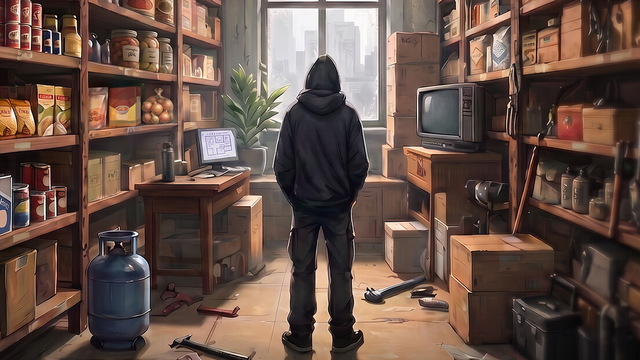
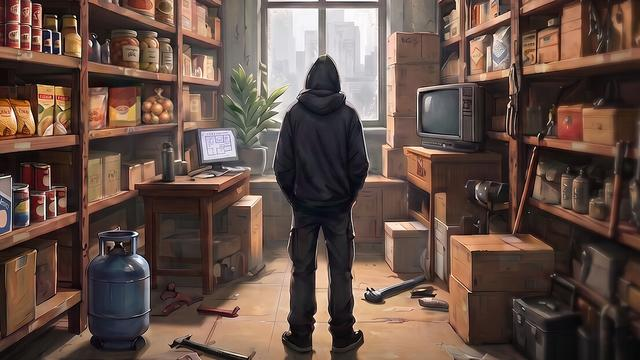
Extension id survivallog and JPEG game art
info.json gets the id survivallog (the Vortex game id), so Vortex keeps the extension in one folder and loads only one copy; the dev deploy writes to that folder. The game art is a 48 KB JPEG in place of the 375 KB PNG. Both under [Unreleased].

diff --git a/test/archive.test.ts b/test/archive.test.ts
@@ -5,7 +5,7 @@ import { archiveEntries } from "../scripts/archive.mjs";
 describe("archiveEntries", () => {
   const dist = [
     "common.js",
-    "gameart.png",
+    "gameart.jpg",
     "index.js",
     "index.js.map",
     "index.d.ts",
@@ -16,13 +16,13 @@ describe("archiveEntries", () => {
     "node_modules/x/index.js",
   ];
 
-  it("puts info.json, index.js, and gameart.png at the root", () => {
+  it("puts info.json, index.js, and gameart.jpg at the root", () => {
     const entries = archiveEntries(dist);
-    for (const name of ["info.json", "index.js", "gameart.png"]) expect(entries).toContain(name);
+    for (const name of ["info.json", "index.js", "gameart.jpg"]) expect(entries).toContain(name);
     expect(entries.every((e: string) => !e.includes("/"))).toBe(true);
   });
 
   it("keeps the other compiled files and leaves out maps, type files, node_modules, and earlier archives", () => {
-    expect(archiveEntries(dist)).toEqual(["common.js", "gameart.png", "index.js", "info.json", "installers.js", "pack.js"]);
+    expect(archiveEntries(dist)).toEqual(["common.js", "gameart.jpg", "index.js", "info.json", "installers.js", "pack.js"]);
   });
 });

diff --git a/test/info.test.ts b/test/info.test.ts
@@ -2,8 +2,13 @@ import { describe, expect, it } from "vitest";
 
 import pkg from "../package.json";
 import { makeInfo } from "../scripts/info.mjs";
+import { GAME_ID } from "../src/common";
 
 describe("makeInfo", () => {
+  it("gives the Vortex game id as the extension id, so each copy of the extension shares one folder name", () => {
+    expect(makeInfo(pkg).id).toBe(GAME_ID);
+  });
+
   it("gives the numeric Nexus game id that Vortex needs for the listing", () => {
     expect(makeInfo(pkg).gameId).toBe(9894);
   });

diff --git a/src/index.ts b/src/index.ts
@@ -78,7 +78,7 @@ function main(context: types.IExtensionContext): boolean {
   context.registerGame({
     id: GAME_ID,
     name: GAME_NAME,
-    logo: "gameart.png",
+    logo: "gameart.jpg",
     mergeMods: true,
     requiresCleanup: true,
     // Mods deploy from the game root; each installer sets a BepInEx mod type with its own folder.

diff --git a/nexus/images/README.md b/nexus/images/README.md
@@ -1,6 +1,6 @@
 # Images
 
-Nexus page images, tracked in the repo. Both come from the Steam library hero image of Survival Log (1920x620, the key art with no logo), the same source as `assets/gameart.png`. The mods-grid thumbnail is not a separate file: Nexus picks it from the uploaded gallery images.
+Nexus page images, tracked in the repo. Both come from the Steam library hero image of Survival Log (1920x620, the key art with no logo), the same source as `assets/gameart.jpg`. The mods-grid thumbnail is not a separate file: Nexus picks it from the uploaded gallery images.
 
 - `thumb.jpg` - title card (1920x1080) in the style of the mod thumbnails: on black, "Survival" and "Log" in the gold `(251, 178, 11)` (Noto Sans Bold), right-aligned on the left, "Vortex Extension" in white (Noto Sans Light) under them, and a 960x620 cut of the key art around the character on the right, with rounded corners. The gallery image. Pick it as the mods-grid thumbnail.
 - `banner.jpg` - the mod page background (1300x372): a 1440x412 cut of the key art around the character, scaled down, with no text.

diff --git a/README.md b/README.md
@@ -49,7 +49,7 @@ npm test
 npm run package
 ```
 
-`npm run package` writes `dist/sl-vortex-extension-<version>.zip` with `info.json`, `index.js`, the other compiled files, and `gameart.png` at the root. `npm run deploy:dev` copies the build into `%APPDATA%\Vortex\plugins\sl-vortex-extension\` for a test in Vortex; restart Vortex to load it.
+`npm run package` writes `dist/sl-vortex-extension-<version>.zip` with `info.json`, `index.js`, the other compiled files, and `gameart.jpg` at the root. `npm run deploy:dev` copies the build into `%APPDATA%\Vortex\plugins\survivallog\` (the folder of a Vortex install from Nexus, which it replaces) for a test in Vortex; restart Vortex to load it.
 
 - `src/common.ts` - the game constants: the Steam app id, the executable, the Nexus game id, and the pack file that Vortex uses when it cannot read the file list of the pack page.
 - `src/pack.ts` - the choice of the pack file (the newest main file of the pack page, from the public Nexus API) and the check for a BepInEx install in the game folder.

diff --git a/CHANGELOG.md b/CHANGELOG.md
@@ -4,6 +4,11 @@ All notable changes to this extension are documented here. The format is based o
 
 ## [Unreleased]
 
+### Changed
+
+- The extension has a fixed id (`survivallog`), so Vortex keeps it in one folder and loads only one copy.
+- The game art is a JPEG, which makes the download smaller.
+
 ## [1.0.0] - 2026-10-18
 
 ### Added
